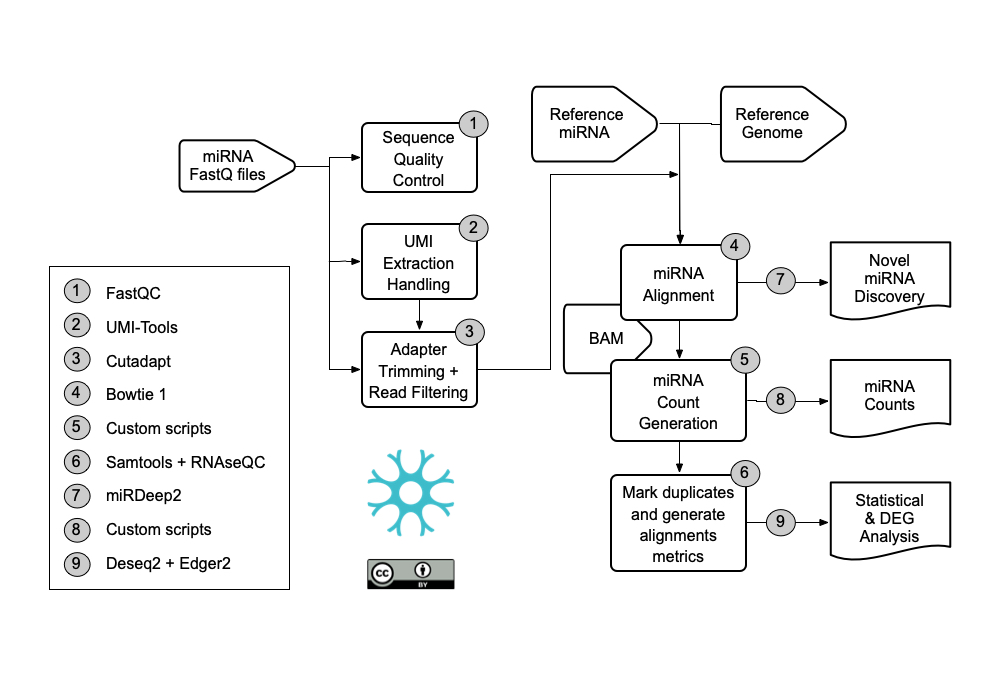
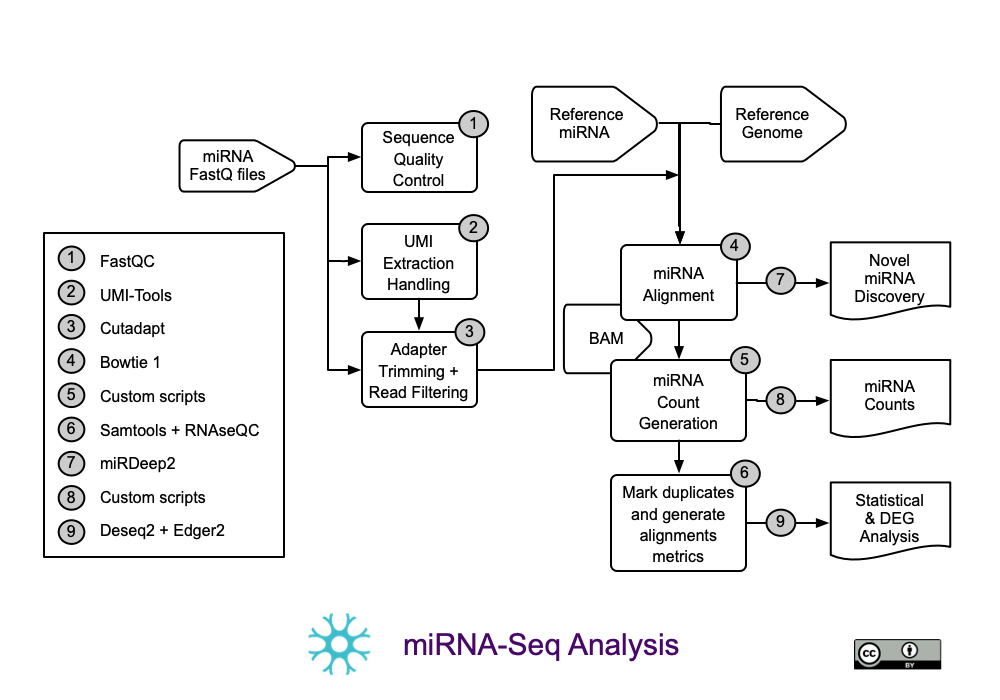
Update images

diff --git a/wf/scrna.md b/wf/scrna.md
@@ -7,14 +7,14 @@ permalink: wf/
 # Single Cell RNA-Seq Analysis
 
 
-![scRNA-Seq](/wf/WF06_scRNASeq_workflow_ver01.jpg "scRNASeq Workflow")
+![scRNA-Seq Analysis](/wf/WF04_scRNASeq_workflow_ver02.jpg "scRNASeq Analysis")
 
 
 ## scRNA-Seq, gene product abundance and discovery.
 
 
 ### Short description of the workflow and its purpose:
-This workflow takes as input miRNA sequence reads (presumably with Unique Molecular Identifiers (UMIs))  in FASTQ format and uses a number of tools to QC, trim, map, analyze, count and do a differential gene expression depending on your experimental design. All of these tools and workflow were extracted from the Potlaab and colleagues publication[2]. Other details on Bioinformatic Analysis of MicroRNA Sequencing Data are also described in the publication from Fu and Dong [3].
+
 
 
 

diff --git a/wf/rna_dea.md b/wf/rna_dea.md
@@ -4,10 +4,10 @@ title: RNA-Seq and Differential Expression Analysis
 permalink: wf/rna_dea
 ---
 
-# RNA-Seq and Differential Expression Analysis
+# RNA-Seq and Differential Expression Gene Analysis
 
 
-![RNA-Seq and DEA](/wf/WF02_RNASeq_DEG_workflow_ver02.jpg "RNASeq DEA workflow")
+![RNA-Seq and DEA](/wf/WF02_RNASeq_DEG_workflow_ver03.jpg "RNASeq DEA workflow")
 
 
 ## RNA-Seq, genes abundance and differential expression.

diff --git a/wf/WGS.md b/wf/WGS.md
@@ -7,7 +7,7 @@ permalink: wf/WGS
 # Whole-genome/exome mapping and variant calling Analysis
 
 
-![WGS](/wf/WF05_WGS_ver06.jpg "WGS")
+![Whole Genome and Exome Analysis](/wf/WF05_WGS_ver07.jpg "Whole Genome and Exome Analysis")
 
 
 ## Secondary analysis of WGS DNAseq data using Illumina DRAGEN

diff --git a/wf/mirna.md b/wf/mirna.md
@@ -7,7 +7,7 @@ permalink: wf/rna
 # miRNA-Seq Analysis
 
 
-![miRNA-Seq](/wf/WF03_miRNASeq_workflow_ver02.jpg "miRNASeq Workflow")
+![miRNA-Seq Analysis](/wf/WF03_miRNASeq_workflow_ver02.jpg "miRNASeq Analysis")
 
 
 ## miRNA-Seq, gene product abundance and discovery.

diff --git a/wf/rna.md b/wf/rna.md
@@ -7,7 +7,7 @@ permalink: wf/rna
 # RNA-Seq Analysis
 
 
-![RNA-Seq](/wf/WF01_RNASeq_workflow_ver02.jpg "RNA-Seq Workflow")
+![RNA-Seq Analysis](/wf/WF01_RNASeq_workflow_ver03.jpg "RNA-Seq Analysis")
 
 
 ## RNA-Seq, gene product abundance.
